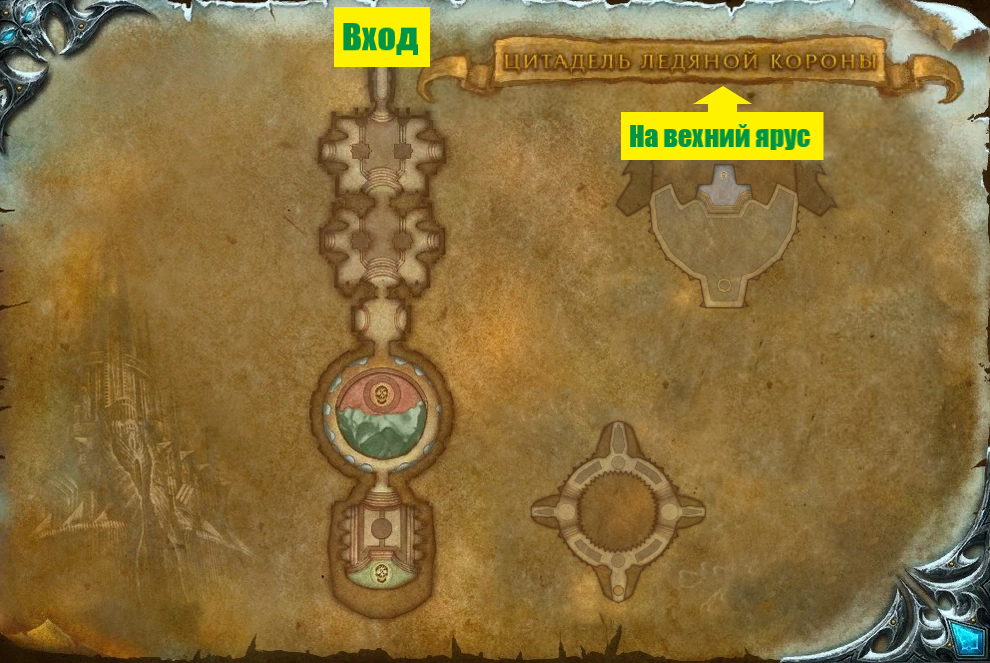
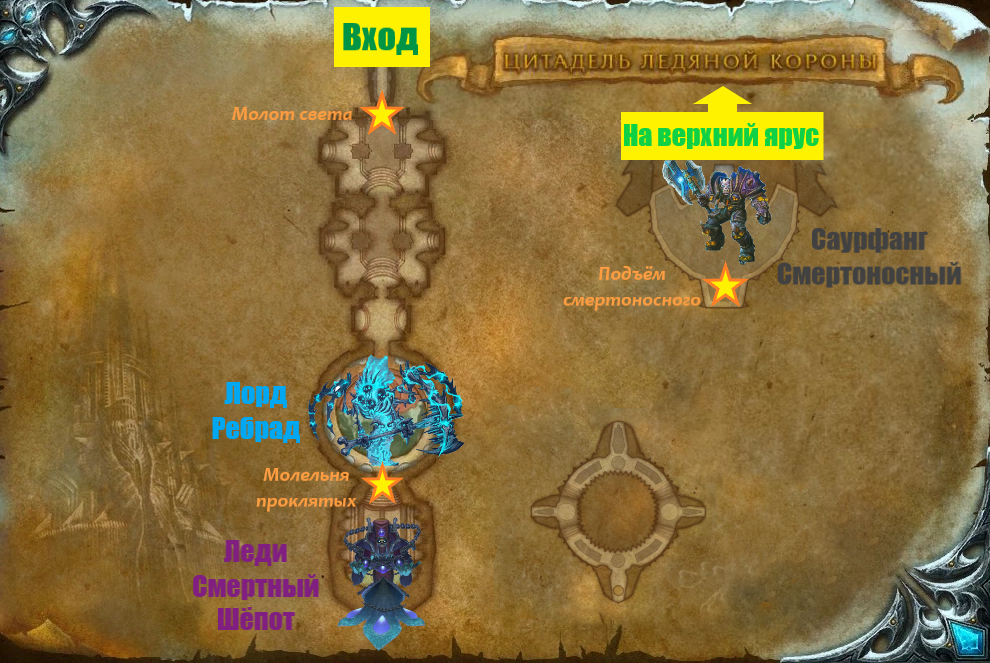
Переделал введение на 96%

diff --git a/docs/icc/intro.md b/docs/icc/intro.md
@@ -36,20 +36,16 @@ description: Introduction page.
 [**Леди Смертный Шёпот**](lower_spire/lady_deathwhisper.md). Затем нужно задействовать транспортёр плети (ближайший
 к **Леди** это Молельня проклятых) и перенестись на Черепной Вал.
 
-![Нижний Ярус](/img/icc/map/Нижний_ярус.png)
-
-На данном этаже идёт бой с силами плети. Игрокам нужно добраться до корабля своей фракции. Альянс идёт налево, Орда
-~~сосед~~ идёт направо.
-
-![Черепной вал](/img/icc/map/Черепной_вал.png)
-
-Нужно поговорить с Мурадином Бронзобородом, чтобы Покоритель Небес полетел на второй ярус ЦЛК. Во время полёта будет 
+На данном этаже игрокам нужно добраться до корабля своей фракции. Альянс идёт налево, Орда
+~~сосед~~ идёт направо. Нужно поговорить с Мурадином Бронзобородом, чтобы Покоритель Небес полетел на второй ярус ЦЛК. Во время полёта будет 
 [**Бой на кораблях**](lower_spire/gunship_battle.md), третий энкаунтер ЦЛК. Необходимо отбить атаку Орды с Молота 
-Оргрима. После ~~попущения урков~~ победы над кораблём противника, игроки прилетят на Подъём Смертоносного (типа 
-балкончик перед вторым ярусом). Вход в основную часть ЦЛК преградит [**Саурфанг Смертоносный**](lower_spire/saurfang.md), 
-последний босс данного этапа.
+Оргрима. 
 
-![Саурфанг выходи](/img/icc/map/Подъём_смертоносного.png)
+После ~~попущения урков~~ победы над кораблём противника, игроки прилетят на Подъём Смертоносного (типа 
+балкончик перед вторым ярусом). Вход в основную часть ЦЛК преградит [**Саурфанг Смертоносный**](lower_spire/saurfang.md), 
+последний босс Штурма Циталели.
+
+![Нижний Ярус](/img/icc/map/Нижний_ярус.png)
 
 ### Второй ярус
 
